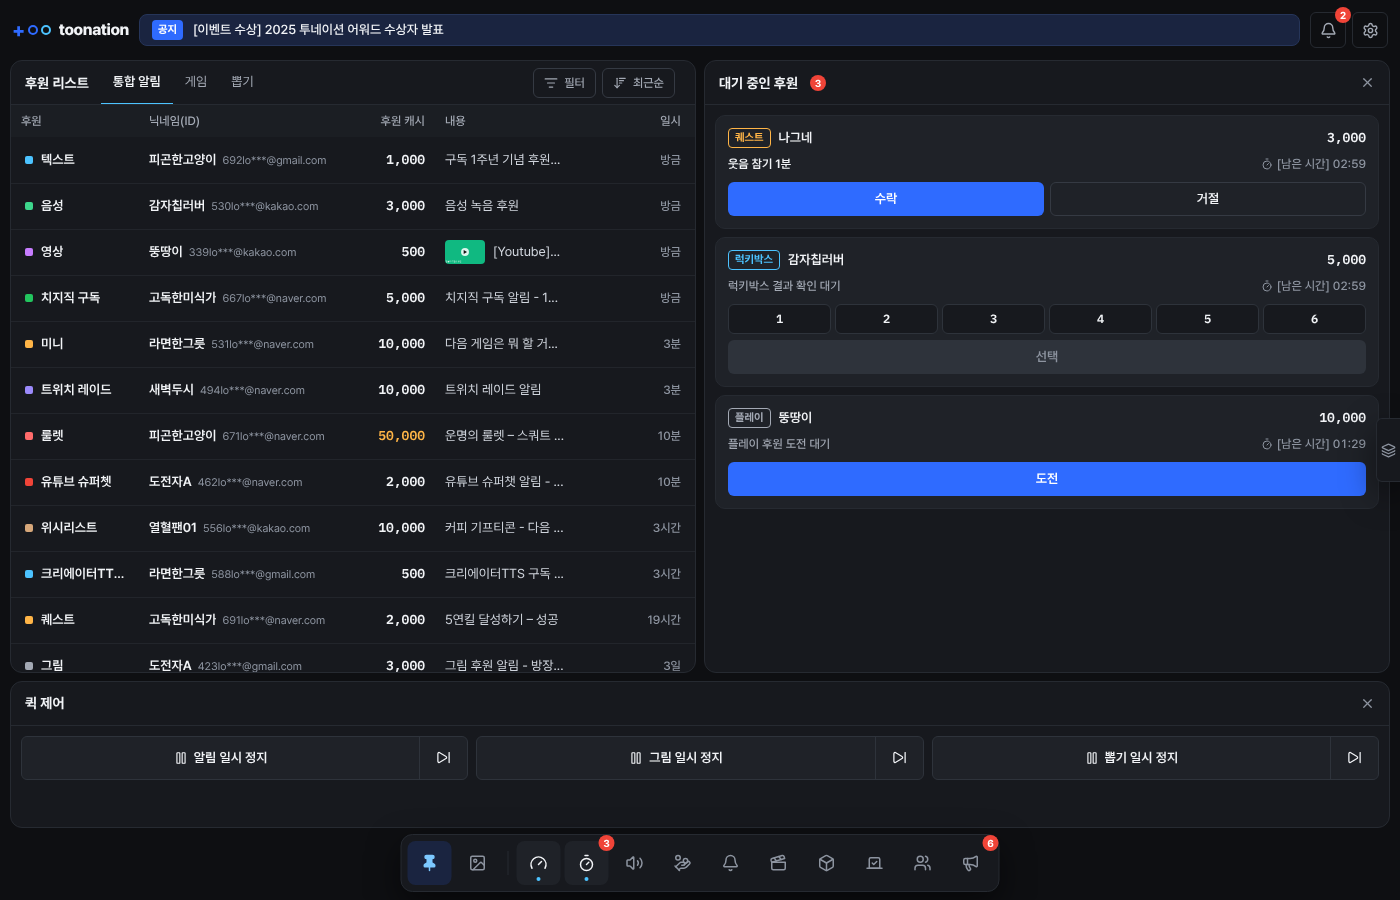
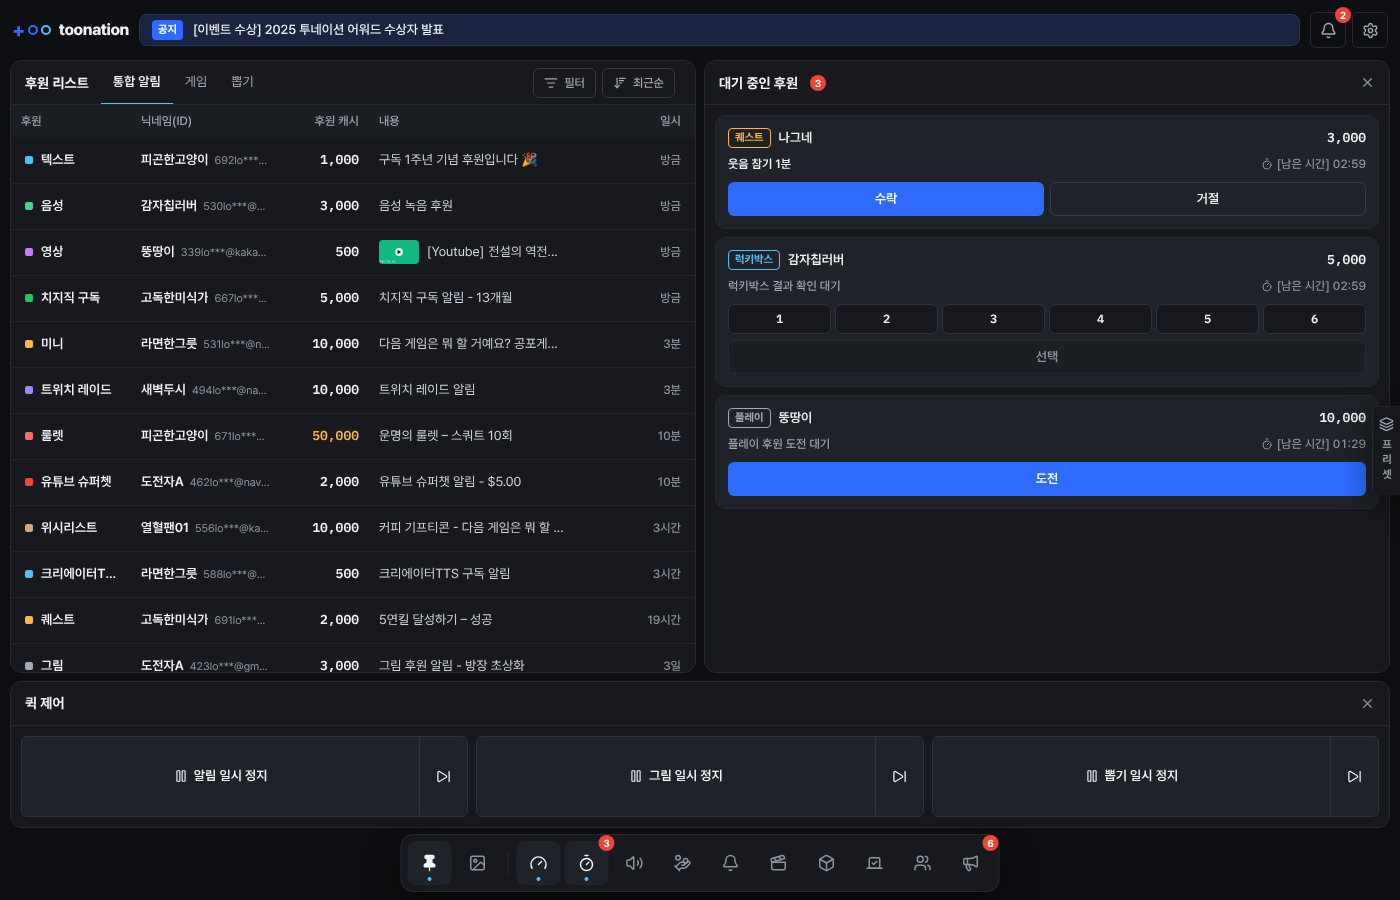
디자인 후속: 설치형 화면 아쉬운 점과 라이트 모드 대비 반영
화면
- 창 버튼(최소화·최대화·닫기) 테두리 제거, hover 때만 바탕
- 퀵 제어 버튼 묶음이 위젯 높이를 채움 (44~96px)
- 후원 리스트: 절반 폭에서도 표 유지 (카드 전환 520px, 900px 미만은 좁은 칸 폭), 종류 칸 156px
- 행 차단 버튼은 평소 외곽선, 버튼 hover 때만 빨간 바탕
- Dock 압정 켜짐 표시를 위젯 켜짐과 같은 규칙으로 통일
- 프리셋 손잡이에 세로 글자 "프리셋"

라이트 모드 (토큰 문서와 다른 값 — 결과 문서에 디자인팀 확인 필요로 기록)
- warning-text 추가: 5만 이상 금액 글자 2.35:1 → 5.43:1
- surface-sunken #F2F4F7: 표 헤더·hover 구분
- line-strong/control #868FA0: 보조 버튼·입력칸·꺼진 토글 3:1 이상
- live #0079B8, 일부 종류 색 진하게 (태그 글자 4.5:1 이상)
- scrim 추가: 라이트 모달 가림막을 옅게

Claude-Session: https://claude.ai/code/session_01Lj1xtHWErxYfBs2YisZajL

diff --git a/src/components/ui.tsx b/src/components/ui.tsx
@@ -33,7 +33,7 @@ export function Modal({ title, onClose, children, width = 'max-w-md', footer }: 
   const close = useCallback(() => onClose(), [onClose]);
   const ref = useOutsideClick<HTMLDivElement>(close);
   return (
-    <div className="fixed inset-0 z-modal flex items-center justify-center bg-black/50 p-4">
+    <div className="fixed inset-0 z-modal flex items-center justify-center bg-scrim p-4">
       <div ref={ref} role="dialog" aria-modal className={`pop w-full ${width} max-h-[90vh] flex flex-col rounded-card bg-surface border border-line text-text shadow-float overflow-hidden`}>
         {title !== undefined && (
           <div className="flex items-center gap-2 pl-4 pr-2 h-11 shrink-0 border-b border-line">
@@ -53,7 +53,7 @@ export function Modal({ title, onClose, children, width = 'max-w-md', footer }: 
 /** 확인·알림창: 모달과 같은 표면, 버튼은 오른쪽 아래 가로 배치 */
 function AlertShell({ children, onBackdrop }: { children: ReactNode; onBackdrop?: () => void }) {
   return (
-    <div className="fixed inset-0 z-alert flex items-center justify-center bg-black/50 p-4" onPointerDown={(e) => onBackdrop && e.target === e.currentTarget && onBackdrop()}>
+    <div className="fixed inset-0 z-alert flex items-center justify-center bg-scrim p-4" onPointerDown={(e) => onBackdrop && e.target === e.currentTarget && onBackdrop()}>
       <div role="alertdialog" className="pop w-[340px] max-w-full rounded-card bg-surface border border-line shadow-float p-5 text-left">{children}</div>
     </div>
   );
@@ -93,7 +93,7 @@ export function Alert({ title, message, onClose }: { title: string; message: str
  */
 export function Button({ variant = 'primary', size = 'md', className = '', ...props }: React.ButtonHTMLAttributes<HTMLButtonElement> & { variant?: 'primary' | 'secondary' | 'outline' | 'danger'; size?: 'sm' | 'md' | 'lg' }) {
   const styles = {
-    primary: 'bg-brand text-text-on-brand hover:bg-brand-hover disabled:bg-line-strong disabled:text-text-tertiary',
+    primary: 'bg-brand text-text-on-brand hover:bg-brand-hover disabled:bg-surface-sunken disabled:text-text-tertiary disabled:border disabled:border-line',
     secondary: 'bg-surface-raised border border-line-strong text-text hover:bg-surface-sunken disabled:text-text-tertiary',
     outline: 'bg-transparent border border-line-control text-text hover:bg-surface-raised disabled:text-text-tertiary',
     danger: 'bg-danger text-white hover:brightness-110 disabled:opacity-50',
@@ -152,7 +152,7 @@ export const BIG_CASH = 50_000;
 
 /** 금액: font-num 600, 5만 이상 warning */
 export function Cash({ value, className = '' }: { value: number; className?: string }) {
-  return <span className={`font-num font-semibold tabular-nums ${value >= BIG_CASH ? 'text-warning' : ''} ${className}`}>{formatCash(value)}</span>;
+  return <span className={`font-num font-semibold tabular-nums ${value >= BIG_CASH ? 'text-warning-text' : ''} ${className}`}>{formatCash(value)}</span>;
 }
 
 export function Empty({ children }: { children: ReactNode }) {

diff --git a/src/shell/TitleBar.tsx b/src/shell/TitleBar.tsx
@@ -26,6 +26,9 @@ export function Logo({ className = '' }: { className?: string }) {
 /** 상단 바 아이콘 버튼: 36×36 사각(radius-control) + 1px line */
 const barButton = 'w-9 h-9 rounded-control border border-line flex items-center justify-center text-text-secondary hover:text-text hover:bg-surface-raised transition-colors';
 
+/** 창 버튼: 테두리 없이 hover 때만 바탕 */
+const captionButton = 'w-[42px] h-9 rounded-control flex items-center justify-center text-text-secondary hover:text-text hover:bg-surface-raised transition-colors';
+
 /** 상단 바: 투네이션 BI · 공지 · 알림 · 설정 · (설치형) 압정/창 버튼 (p9, p13) */
 export function TitleBar() {
   const t = useT();
@@ -61,11 +64,14 @@ export function TitleBar() {
                 <Pin size={15} className={pinned ? 'fill-current' : ''} />
               </button>
             </Tooltip>
-            <button aria-label="최소화" onClick={desktop.window.minimize} className={barButton}><Minus size={15} /></button>
-            <button aria-label="최대화" onClick={() => { desktop!.window.toggleMaximize(); setMaximized(!maximized); }} className={barButton}>
-              {maximized ? <Copy size={13} /> : <Square size={13} />}
-            </button>
-            <button aria-label="닫기" onClick={desktop.window.close} className={`${barButton} hover:!bg-danger hover:!text-white hover:border-danger`}><X size={15} /></button>
+            {/* 창 버튼(최소화·최대화·닫기)은 테두리 없는 Windows 기본 형태 */}
+            <div className="flex items-center ml-1">
+              <button aria-label="최소화" onClick={desktop.window.minimize} className={captionButton}><Minus size={16} /></button>
+              <button aria-label="최대화" onClick={() => { desktop!.window.toggleMaximize(); setMaximized(!maximized); }} className={captionButton}>
+                {maximized ? <Copy size={13} /> : <Square size={13} />}
+              </button>
+              <button aria-label="닫기" onClick={desktop.window.close} className={`${captionButton} hover:!bg-danger hover:!text-white`}><X size={16} /></button>
+            </div>
           </>
         )}
       </div>

diff --git a/src/index.css b/src/index.css
@@ -11,14 +11,16 @@
   --canvas: 242 244 247; /* #F2F4F7 */
   --surface: 255 255 255; /* #FFFFFF */
   --surface-raised: 247 248 250; /* #F7F8FA */
-  --surface-sunken: 247 248 250; /* #F7F8FA */
+  /* 라이트 조정(HANDOFF-01 후속): 표 헤더·hover가 흰 바탕과 구분되도록 #F7F8FA → #F2F4F7 */
+  --surface-sunken: 242 244 247; /* #F2F4F7 */
   --brand-tint: 234 241 255; /* #EAF1FF */
   --brand-tint-line: 201 218 255; /* #C9DAFF */
 
   --line: 228 231 236; /* #E4E7EC */
   --line-subtle: 238 240 243; /* #EEF0F3 */
-  --line-strong: 208 213 221; /* #D0D5DD */
-  --line-control: 208 213 221; /* #D0D5DD */
+  /* 라이트 조정: 보조 버튼·입력칸·꺼진 토글 테두리가 흰 바탕에서 3:1 이상이 되도록 #D0D5DD → #868FA0 */
+  --line-strong: 134 143 160; /* #868FA0 */
+  --line-control: 134 143 160; /* #868FA0 */
 
   --text: 16 24 40; /* #101828 */
   --text-body: 52 64 84; /* #344054 */
@@ -29,12 +31,17 @@
 
   --brand: 47 107 255; /* #2F6BFF */
   --brand-hover: 30 91 230; /* #1E5BE6 */
-  --live: 11 165 236; /* #0BA5EC */
+  /* 라이트 조정: 선택 탭 밑줄·Dock 점이 흰 바탕에서 보이도록 #0BA5EC → #0079B8 */
+  --live: 0 121 184; /* #0079B8 */
   --warning: 247 144 9; /* #F79009 */
+  /* warning 색 글자(5만 이상 금액). 라이트 #F79009는 흰 바탕 대비 2.35:1이라 글자용 진한 단계를 따로 둔다 */
+  --warning-text: 181 71 8; /* #B54708 */
   --text-on-warning: 26 18 5; /* #1A1205 */
   --danger: 217 45 32; /* #D92D20 */
 
   --shadow-float: 0 12px 32px rgba(16, 24, 40, 0.14);
+  /* 모달 뒤 가림막: 라이트는 옅게 */
+  --scrim: rgba(16, 24, 40, 0.3);
   color-scheme: light;
 }
 
@@ -62,10 +69,12 @@
   --brand-hover: 74 128 255; /* #4A80FF */
   --live: 76 195 255; /* #4CC3FF */
   --warning: 255 181 71; /* #FFB547 */
+  --warning-text: 255 181 71; /* #FFB547 */
   --text-on-warning: 26 18 5; /* #1A1205 */
   --danger: 240 68 56; /* #F04438 */
 
   --shadow-float: 0 12px 32px rgba(0, 0, 0, 0.5);
+  --scrim: rgba(0, 0, 0, 0.5);
   color-scheme: dark;
 }
 

diff --git a/src/widgets/donations/AlertList.tsx b/src/widgets/donations/AlertList.tsx
@@ -11,7 +11,7 @@ import { KindDot, ResizableTh, RowButtons, ThumbPreview } from './parts';
 type Hover = { d: Donation; x: number; y: number; mode: 'text' | 'thumb' } | null;
 
 /** 통합 알림·게임 탭 리스트. 넓으면 표, 좁으면 카드(반응형 UI, p50~53). */
-export function AlertList({ tab, compact }: { tab: 'all' | 'game'; compact: boolean }) {
+export function AlertList({ tab, compact, dense }: { tab: 'all' | 'game'; compact: boolean; dense?: boolean }) {
   const t = useT();
   const now = useNow(15_000);
   const donations = useData((d) => d.donations);
@@ -70,9 +70,10 @@ export function AlertList({ tab, compact }: { tab: 'all' | 'game'; compact: bool
             <thead className="sticky top-0 z-10 bg-surface-sunken">
               <tr>
                 {/* 종류 칸은 최소 120px — "치지직 구독", "유튜브 슈퍼챗", "트위치 레이드"가 잘리지 않게 */}
-                {tab === 'all' && <ResizableTh col="all.kind" width={128} min={120}>{t('후원')}</ResizableTh>}
-                <ResizableTh col={`${tab}.nick`} width={200}>{t('닉네임(ID)')}</ResizableTh>
-                <ResizableTh col={`${tab}.cash`} width={96} className="text-right">{tab === 'game' ? t('후원 금액(원)') : t('후원 캐시')}</ResizableTh>
+                {/* 넓을 때는 "크리에이터TTS 구독"까지 보이는 156px, 중간 폭에서는 최소 120px */}
+                {tab === 'all' && <ResizableTh col="all.kind" width={dense ? 120 : 156} min={120}>{t('후원')}</ResizableTh>}
+                <ResizableTh col={`${tab}.nick`} width={dense ? 150 : 200}>{t('닉네임(ID)')}</ResizableTh>
+                <ResizableTh col={`${tab}.cash`} width={dense ? 88 : 96} className="text-right">{tab === 'game' ? t('후원 금액(원)') : t('후원 캐시')}</ResizableTh>
                 <ResizableTh col={`${tab}.content`}>{t('내용')}</ResizableTh>
                 <th className="w-[7.5rem] h-8 px-[14px] text-caption text-text-secondary text-right whitespace-nowrap">{t('일시')}</th>
               </tr>

diff --git a/src/widgets/donations/parts.tsx b/src/widgets/donations/parts.tsx
@@ -14,7 +14,7 @@ export function KindDot({ kind, className = '' }: { kind: DonationKind; classNam
   return (
     <span className={`flex items-center gap-2 min-w-0 ${className}`}>
       <span className="w-2 h-2 rounded-[2px] shrink-0" style={{ background: kindColor(kind) }} />
-      <span className="truncate">{KIND_LABEL[kind]}</span>
+      <span className="truncate" title={KIND_LABEL[kind]}>{KIND_LABEL[kind]}</span>
     </span>
   );
 }
@@ -29,7 +29,10 @@ export function KindTag({ kind, label }: { kind: DonationKind; label?: string })
   );
 }
 
-/** 행 기능 버튼: 재생 / 차단(차단 해제) / 벽지 (p41 ④-1, p39 표). */
+/**
+ * 행 기능 버튼: 재생 / 차단(차단 해제) / 벽지 (p41 ④-1, p39 표).
+ * 차단은 평소 외곽선(빨간 아이콘)이고, 버튼에 마우스를 올렸을 때만 빨간 바탕이 된다 — 목록을 훑을 때 시선을 뺏지 않게.
+ */
 export function RowButtons({ d, blocked, compact }: { d: Donation; blocked: boolean; compact?: boolean }) {
   const t = useT();
   const showBlock = useSettings((s) => s.showBlockButton);
@@ -51,7 +54,7 @@ export function RowButtons({ d, blocked, compact }: { d: Donation; blocked: bool
       <Tooltip key="b" label={blocked ? t('차단 해제') : t('차단')}>
         <button
           aria-label={blocked ? t('차단 해제') : t('차단')}
-          className={`${btn} ${size} ${blocked ? 'bg-surface-raised border border-line-strong text-text hover:bg-surface-sunken' : 'bg-danger text-white hover:brightness-110'}`}
+          className={`${btn} ${size} ${blocked ? 'bg-surface-raised border border-line-strong text-text hover:bg-surface-sunken' : 'bg-transparent border border-line-control text-danger hover:bg-danger hover:border-danger hover:text-white'}`}
           onClick={(e) => { e.stopPropagation(); if (blocked) api.unblock(d.donorId); else api.block(d.donorId); }}
         >
           {blocked ? <Undo2 size={13} /> : <Ban size={13} />}{compact && (blocked ? t('차단 해제') : t('차단'))}

diff --git a/src/shell/Presets.tsx b/src/shell/Presets.tsx
@@ -17,12 +17,15 @@ const names = (tiles: Tiles) => (Object.keys(tiles) as WidgetId[]).map((id) => W
 export function PresetsButton() {
   const t = useT();
   return (
+    // 화면 오른쪽 가장자리 손잡이: 아이콘만 있으면 기능이 잘 안 보여 세로 글자 "프리셋"을 함께 둔다
     <button
       aria-label={t('레이아웃 프리셋')}
+      title={t('레이아웃 프리셋')}
       onClick={() => uiStore.set({ presetsOpen: true })}
-      className="fixed right-0 top-1/2 -translate-y-1/2 z-[9000] h-16 w-6 rounded-l-control bg-surface border border-r-0 border-line shadow-float text-text-tertiary hover:text-link hover:w-8 transition-all flex items-center justify-center"
+      className="fixed right-0 top-1/2 -translate-y-1/2 z-[9000] w-7 py-2.5 rounded-l-control bg-surface border border-r-0 border-line shadow-float text-text-secondary hover:text-text hover:bg-surface-raised hover:w-8 transition-all flex flex-col items-center gap-1.5"
     >
-      <Layers size={15} />
+      <Layers size={15} className="shrink-0" />
+      <span className="text-micro font-semibold [writing-mode:vertical-rl] tracking-[0.2em]">{t('프리셋')}</span>
     </button>
   );
 }
@@ -46,7 +49,7 @@ export function PresetsPanel() {
 
   return (
     <div className="fixed inset-0 z-sheet" onPointerDown={(e) => e.target === e.currentTarget && close()}>
-      <div className="absolute inset-0 bg-black/50 pointer-events-none" />
+      <div className="absolute inset-0 bg-scrim pointer-events-none" />
       <aside className="pop absolute right-0 top-0 bottom-0 w-[320px] max-w-full bg-surface border-l border-line shadow-float flex flex-col text-text">
         <div className="h-11 flex items-center justify-between pl-4 pr-2 border-b border-line">
           <h2 className="text-title-widget flex items-center gap-2"><Layers size={16} className="text-link" /> {t('레이아웃 프리셋')}</h2>

diff --git a/src/widgets/donations/DonationList.tsx b/src/widgets/donations/DonationList.tsx
@@ -23,8 +23,12 @@ export default function DonationList() {
   const unseen = useData((d) => d.unseen);
   const [ref, width] = useWidth<HTMLDivElement>();
   const scale = useSettings((s) => s.textScale) / 100;
-  // 표 → 카드 전환 폭. 종류(120)·닉네임·캐시·일시 칸을 두고도 내용 칸이 남도록 잡고, 글자 크기에 비례해 넓힌다
-  const compact = width > 0 && width < 640 * scale;
+  // 표 → 카드 전환 폭. 절반 폭(약 640px)에서도 표를 유지하고, 그보다 좁을 때만 카드로 바꾼다. 글자 크기에 비례해 넓힌다
+  const compact = width > 0 && width < 520 * scale;
+  // 중간 폭: 표는 유지하되 종류·닉네임 칸 기본 폭을 줄여 내용 칸을 남긴다
+  const dense = width > 0 && width < 900 * scale;
+  // 뽑기 탭은 칸이 하나 더 많아 640px부터 카드로 바꾼다
+  const drawCompact = width > 0 && width < 640 * scale;
   // 좁으면 헤더 버튼은 아이콘만 남긴다 (텍스트 크기 125·150%에서도 탭이 잘리지 않게)
   const narrow = width > 0 && width < 640 * scale;
 
@@ -59,7 +63,7 @@ export default function DonationList() {
         </div>
       </WidgetHeader>
       <div className="flex-1 min-h-0">
-        {tab === 'draw' ? <DrawTab compact={compact} searching={searching} /> : <AlertList tab={tab} compact={compact} />}
+        {tab === 'draw' ? <DrawTab compact={drawCompact} searching={searching} /> : <AlertList tab={tab} compact={compact} dense={dense} />}
       </div>
     </div>
   );

diff --git a/src/lib/kindColors.ts b/src/lib/kindColors.ts
@@ -6,16 +6,17 @@ import type { DonationKind } from '../types';
 type KindGroup = 'text' | 'voice' | 'video' | 'chzzk' | 'mini' | 'twitch' | 'roulette' | 'youtube' | 'wish' | 'luckybox' | 'etc';
 
 const KIND_COLORS: Record<KindGroup, { dark: string; light: string }> = {
-  text: { dark: '#4CC3FF', light: '#0086C9' },
-  voice: { dark: '#3DD68C', light: '#039855' },
+  // 라이트 값 일부는 HANDOFF-01 후속으로 진하게 조정 (11px 태그 글자가 바탕 대비 4.5:1 이상이 되도록)
+  text: { dark: '#4CC3FF', light: '#0079B8' }, // 토큰 #0086C9
+  voice: { dark: '#3DD68C', light: '#027A48' }, // 토큰 #039855
   video: { dark: '#C77DFF', light: '#9E3BEA' },
-  chzzk: { dark: '#22C55E', light: '#16A34A' },
-  mini: { dark: '#FFB547', light: '#DC6803' }, // 미니 / 퀘스트
+  chzzk: { dark: '#22C55E', light: '#15803D' }, // 토큰 #16A34A
+  mini: { dark: '#FFB547', light: '#B54708' }, // 미니 / 퀘스트, 토큰 #DC6803
   twitch: { dark: '#9B8AFB', light: '#6E56CF' },
   roulette: { dark: '#FF6B6B', light: '#D92D20' },
   youtube: { dark: '#F04438', light: '#B42318' },
   wish: { dark: '#D6A77A', light: '#93622F' }, // 위시리스트·기프트
-  luckybox: { dark: '#4CC3FF', light: '#0086C9' },
+  luckybox: { dark: '#4CC3FF', light: '#0079B8' }, // 토큰 #0086C9
   etc: { dark: '#A3A9B4', light: '#667085' }, // 이미지·그림·기타
 };
 

diff --git a/src/shell/Dock.tsx b/src/shell/Dock.tsx
@@ -60,8 +60,10 @@ export function Dock() {
       >
         <div className="flex items-center gap-1 p-[6px] rounded-widget bg-surface border border-line shadow-float">
           <Tooltip label={pinned ? 'Dock 고정 해제' : 'Dock 고정'}>
-            <button aria-label="Dock 압정" aria-pressed={pinned} onClick={() => api.updateSettings({ dockPinned: !pinned })} className={`w-[44px] h-[44px] rounded-dock-item flex items-center justify-center ${pinned ? 'bg-brand-tint text-link' : 'text-text-tertiary hover:text-text hover:bg-surface-raised'}`}>
+            <button aria-label="Dock 압정" aria-pressed={pinned} onClick={() => api.updateSettings({ dockPinned: !pinned })} className={`relative w-[44px] h-[44px] rounded-dock-item flex items-center justify-center ${pinned ? 'bg-surface-raised text-text' : 'text-text-tertiary hover:text-text hover:bg-surface-raised'}`}>
+              {/* 켜짐 표시는 위젯과 같은 규칙: surface-raised 바탕 + 아래 live 점 */}
               <Pin size={18} className={pinned ? 'fill-current' : ''} />
+              {pinned && <span className="absolute bottom-1 left-1/2 -translate-x-1/2 w-1 h-1 rounded-pill bg-live" />}
             </button>
           </Tooltip>
           <Tooltip label={t('벽지')}>

diff --git a/src/widgets/QuickControl.tsx b/src/widgets/QuickControl.tsx
@@ -21,14 +21,15 @@ export default function QuickControl({ only }: { only?: QuickKind[] }) {
   const [ref, width] = useWidth<HTMLDivElement>();
   const wide = width > 520;
   const groups = only ? GROUPS.filter((g) => only.includes(g.kind)) : GROUPS;
+  // 버튼 묶음이 위젯 높이를 채운다 (최소 44px, 너무 커지지 않게 최대 96px)
   return (
-    <div ref={ref} className={`h-full grid gap-2 p-2.5 content-start ${wide ? 'grid-cols-3' : 'grid-cols-1'}`}>
+    <div ref={ref} className={`h-full grid auto-rows-fr gap-2 p-2.5 ${wide ? 'grid-cols-3' : 'grid-cols-1'}`}>
       {groups.map((g) => {
         const on = paused[g.kind];
         return (
           <div
             key={g.kind}
-            className={`flex h-11 min-w-0 rounded-control border overflow-hidden transition-colors ${
+            className={`flex h-full min-h-[44px] max-h-[96px] self-center min-w-0 rounded-control border overflow-hidden transition-colors ${
               on ? 'bg-warning border-warning text-text-on-warning' : 'bg-surface-raised border-line-strong text-text'
             }`}
           >

diff --git a/src/mobile/MobileApp.tsx b/src/mobile/MobileApp.tsx
@@ -102,7 +102,7 @@ export function MobileApp() {
 
 function Sheet({ title, onClose, children }: { title: string; onClose: () => void; children: ReactNode }) {
   return (
-    <div className="fixed inset-0 z-sheet bg-black/50 flex items-end" onPointerDown={(e) => e.target === e.currentTarget && onClose()}>
+    <div className="fixed inset-0 z-sheet bg-scrim flex items-end" onPointerDown={(e) => e.target === e.currentTarget && onClose()}>
       <div className="pop w-full max-h-[80vh] overflow-auto rounded-t-widget bg-surface border-t border-line shadow-float text-text pb-[env(safe-area-inset-bottom)]">
         <div className="sticky top-0 z-10 flex items-center justify-between h-12 pl-4 pr-2 bg-surface border-b border-line">
           <h2 className="text-title-widget">{title}</h2>

diff --git a/src/shell/Entry.tsx b/src/shell/Entry.tsx
@@ -130,7 +130,7 @@ export function AdPopup() {
   const [hideToday, setHideToday] = useState(false);
   const b = banners[i];
   return (
-    <div className="fixed inset-0 z-modal flex items-center justify-center bg-black/50 p-4">
+    <div className="fixed inset-0 z-modal flex items-center justify-center bg-scrim p-4">
       <div className="pop w-full max-w-sm rounded-card overflow-hidden bg-surface border border-line shadow-float text-text">
         <div className="relative">
           <button className="block w-full" onClick={() => openUrl(b.url)} aria-label={`${b.title} 새 창`}>
